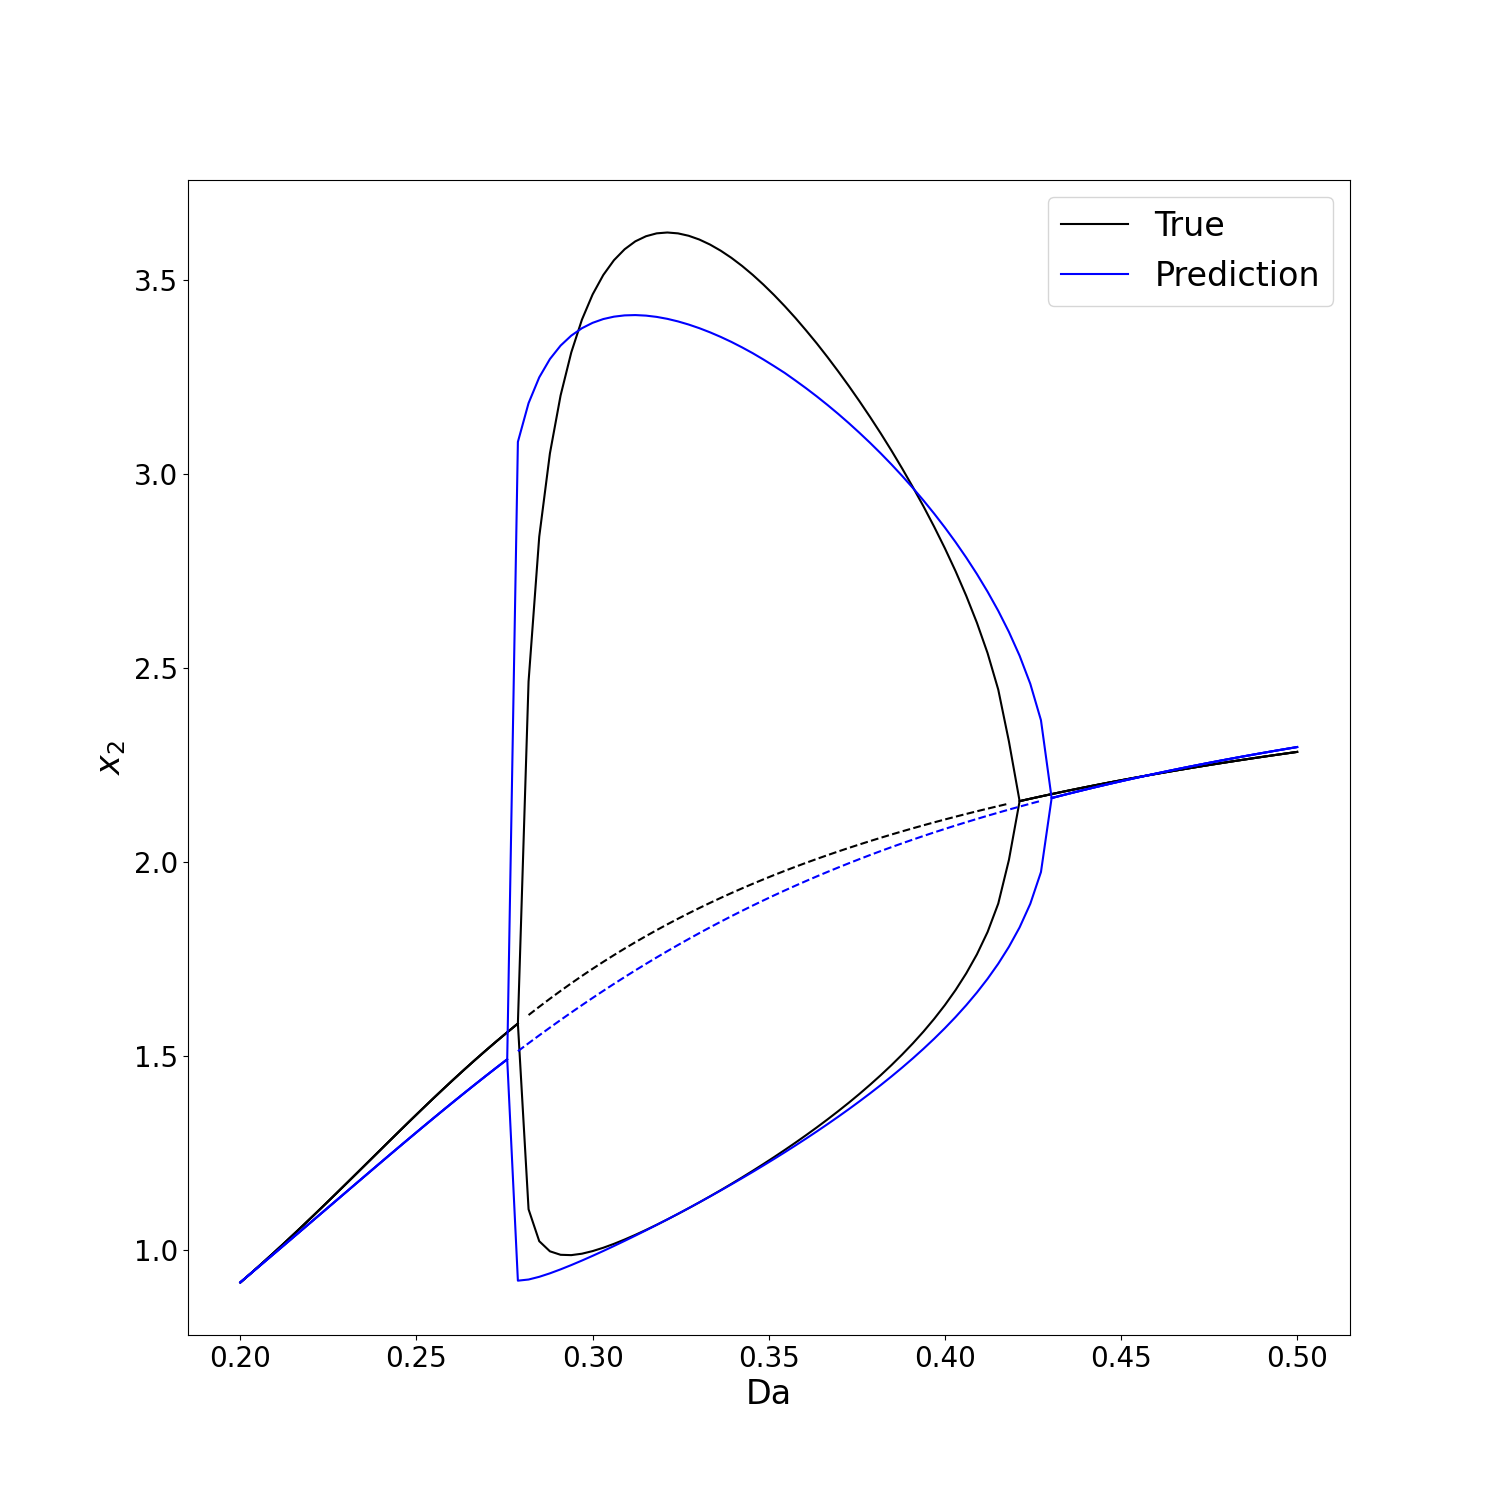
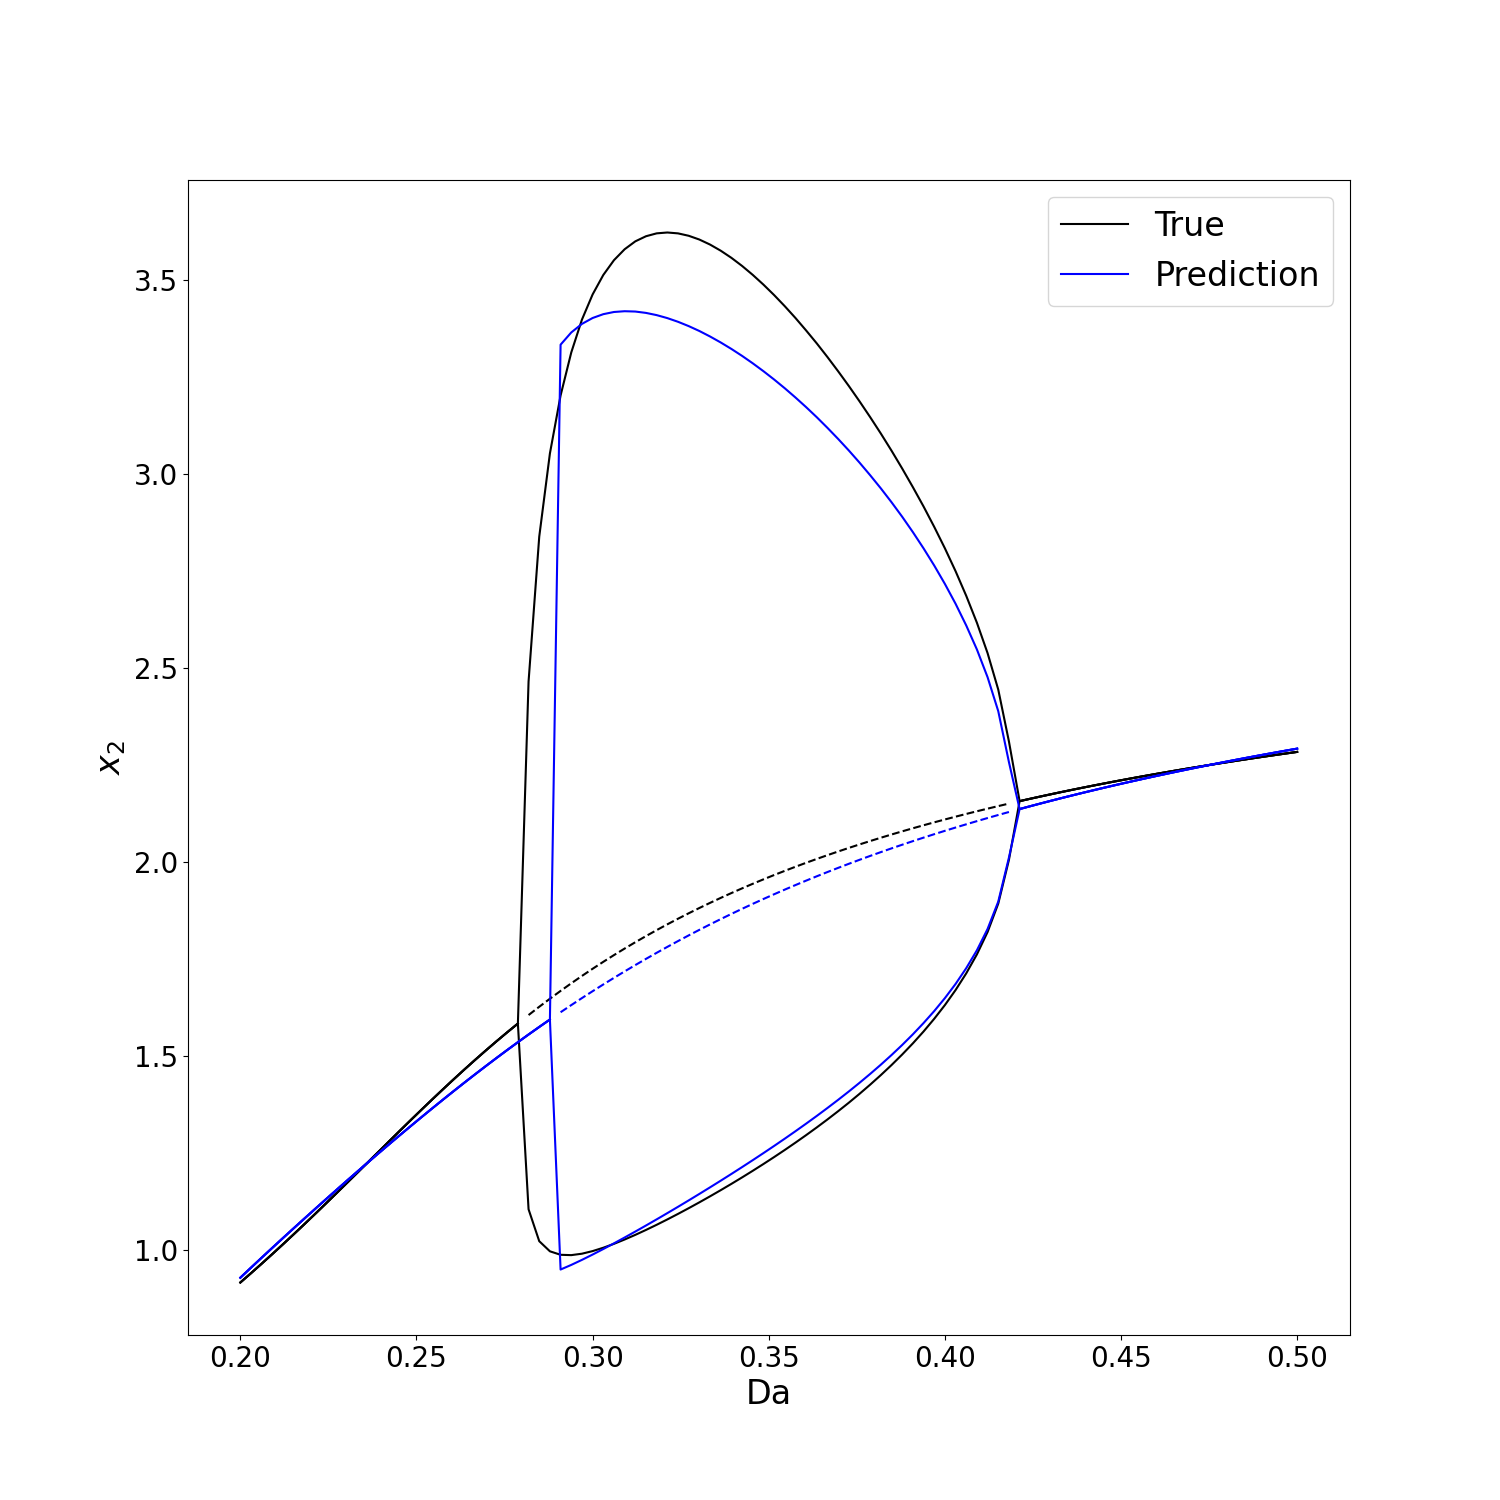
Grey Box Fixed Data

diff --git a/config.py b/config.py
@@ -29,4 +29,4 @@ config["TRAINING"]["EPOCHS"] = 4000 # 1000 # 1259 # 2539 # 5260
 config["MODEL"] = {}
 config["MODEL"]["NUM_HIDDEN"] = [64, 64]
 config["MODEL"]["BOX"] = 'Grey'
-config["MODEL"]["Parameters"] = 'Trainable'
+config["MODEL"]["Parameters"] = 'Fixed'
